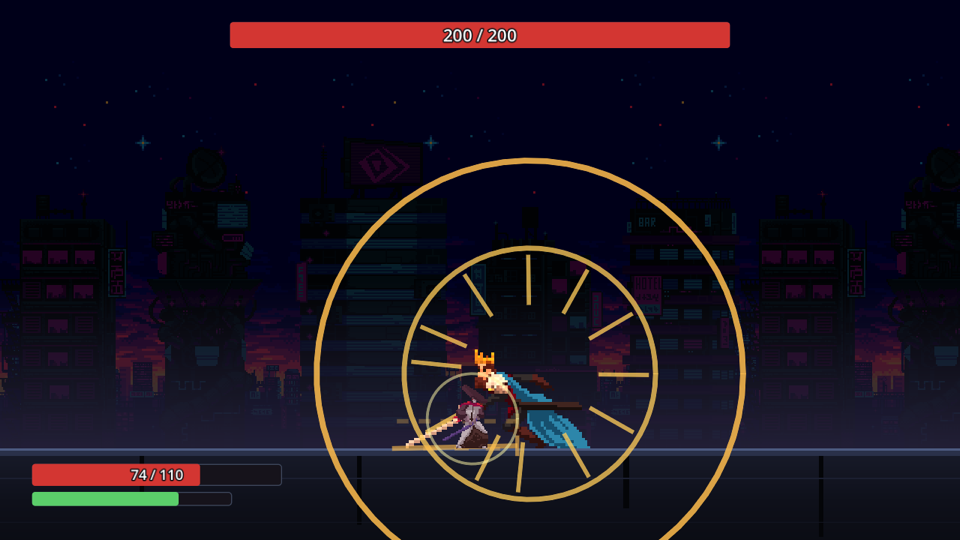
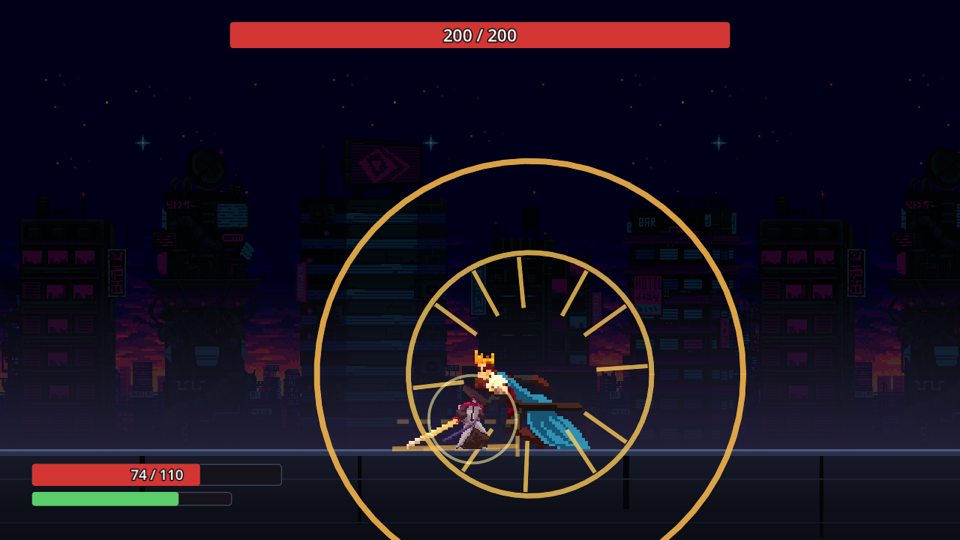
전투를 시작해도 파이터가 땅에 묻히지 않는다 — 처음 끼운 idle 도 재생하고 바닥을 맞춘다 (#62)
SpriteFrames 를 끼우는 순간 엔진이 재생을 멈추고, 지금 이름(처음엔 default)이 새 프레임에 없으면 첫 애니메이션으로 이름만 바꿔 둔다. 이 팩의 첫 애니메이션이 idle 이라 Load 의 Animate("idle") 은 '이미 idle' 로 보고 아무것도 안 했다 — 바닥 맞춤(Offset = −h/2)이 빠진 채 타일 중심이 발에 놓여, 전투가 시작될 때마다 파이터가 몸 절반을 땅에 묻고 첫 장에 멈춰 서 있었다. 처음 움직일 때까지. README 스크린샷에도 그렇게 찍혀 있었다.

판정 보기(#59)로 몸통은 바닥 위에, 그림만 아래에 있는 것이 보여 찾았다. 진단 로그로 확인했다: 프레임을 끼운 직후 anim=idle · offset=(0, 0), Animate 뒤에도 (0, 0). 고친 뒤에는 로드 직후 offset_y=-34.5 다(보스 -51.5).

보스도 같은 길이다 — 시작하자마자 걸어 들어와(run) 그 첫 전환이 바닥을 맞춰 줘 가려져 있었을 뿐이라 같이 고친다. Load 는 이름이 같아도 재생하고 맞추도록 Animate 에 force 를 준다. 로드한 스프라이트와 바닥 오프셋은 [view][D] 로 남긴다. docs/shots 는 다시 찍었다.

diff --git a/overfit/battle/view/FighterView.cs b/overfit/battle/view/FighterView.cs
@@ -213,7 +213,13 @@ public partial class FighterView : Node2D
         }
 
         _sprite.SpriteFrames = frames;
-        Animate("idle");
+        // **이름이 같아도 재생하고 바닥을 맞춘다** (이슈 #62). 프레임을 끼우는 순간 엔진이 재생을 멈추고,
+        // 지금 이름(처음엔 "default")이 새 프레임에 없으면 **첫 애니메이션으로 바꿔 둔다** — 이 팩의 첫
+        // 애니메이션이 idle 이다. 그래서 그냥 Animate("idle") 이면 "이미 idle" 로 보고 아무것도 안 해,
+        // 전투가 시작될 때마다 파이터가 바닥을 안 맞춘 채(타일 중심이 발에 놓여 몸 절반이 땅 밑) 첫 장에
+        // 멈춰 서 있었다 — 처음 움직일 때까지. 판정 보기(#59)로 몸통은 바닥 위에, 그림만 아래에 있는 것이 보였다.
+        Animate("idle", force: true);
+        Log.Debug("view", $"fighter_sprite id={spriteId} anim={_sprite.Animation} offset_y={_sprite.Offset.Y:0.#}");
     }
 
     /// <summary>한 프레임의 상태를 반영한다. y 는 위가 +인 규칙 좌표라 화면에서는 뒤집는다.</summary>
@@ -627,10 +633,12 @@ public partial class FighterView : Node2D
     /// <summary>
     /// 이름이 바뀔 때만 재생하고, 그때마다 바닥을 다시 맞춘다.
     /// 매 프레임 <c>Play</c> 하면 안 바뀐 것처럼 보이지만 애니메이션이 1프레임에 붙들린다.
+    /// <paramref name="force"/> 는 이름이 같아도 그렇게 한다 — 엔진이 이름만 바꿔 두고 재생도 맞춤도 안 한
+    /// 자리(<see cref="Load"/>)가 쓴다.
     /// </summary>
-    private void Animate(string name)
+    private void Animate(string name, bool force = false)
     {
-        if (_sprite.SpriteFrames is null || _sprite.Animation == name)
+        if (_sprite.SpriteFrames is null || (!force && _sprite.Animation == name))
         {
             return;
         }

diff --git a/overfit/battle/view/BossView.cs b/overfit/battle/view/BossView.cs
@@ -129,7 +129,12 @@ public partial class BossView : Node2D
         }
 
         _sprite.SpriteFrames = frames;
-        Animate("idle");
+        // **이름이 같아도 재생하고 바닥을 맞춘다** (이슈 #62). 프레임을 끼우는 순간 엔진이 재생을 멈추고
+        // 첫 애니메이션(이 팩은 idle)으로 이름만 바꿔 두어, 그냥 Animate("idle") 은 아무것도 안 한다.
+        // 파이터는 그래서 전투 시작마다 땅에 반쯤 묻혀 있었고, 보스는 시작하자마자 걸어 들어와(run)
+        // 그 첫 전환이 바닥을 맞춰 줘서 가려져 있었을 뿐 같은 길이다.
+        Animate("idle", force: true);
+        Log.Debug("view", $"boss_sprite id={spriteId} anim={_sprite.Animation} offset_y={_sprite.Offset.Y:0.#}");
     }
 
     /// <summary>
@@ -345,10 +350,13 @@ public partial class BossView : Node2D
         }
     }
 
-    /// <summary>이름이 바뀔 때만 재생하고, 그때마다 바닥을 다시 맞춘다.</summary>
-    private void Animate(string name)
+    /// <summary>
+    /// 이름이 바뀔 때만 재생하고, 그때마다 바닥을 다시 맞춘다. <paramref name="force"/> 는 이름이 같아도
+    /// 그렇게 한다 — 엔진이 이름만 바꿔 두고 재생도 맞춤도 안 한 자리(<see cref="Load"/>)가 쓴다.
+    /// </summary>
+    private void Animate(string name, bool force = false)
     {
-        if (_sprite.SpriteFrames is null || _sprite.Animation == name)
+        if (_sprite.SpriteFrames is null || (!force && _sprite.Animation == name))
         {
             return;
         }
